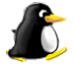
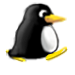
Updated the run animation to incorporate new changes by Connie.
This just moves the back arm from the body part to the arms part.

diff --git a/retux.py b/retux.py
@@ -6721,7 +6721,7 @@ TYPES = {"solid_left": SolidLeft, "solid_right": SolidRight,
 
 print("Initializing game system...")
 Game(SCREEN_SIZE[0], SCREEN_SIZE[1], scale_smooth=(not args.scale_basic),
-     fps=FPS, delta=(not args.nodelta), delta_min=DELTA_MIN,
+     fps=FPS, delta=(not args.nodelta), delta_min=DELTA_MIN, delta_max=240,
      window_text="reTux {}".format(__version__),
      window_icon=os.path.join(DATA, "images", "misc", "icon.png"))
 
